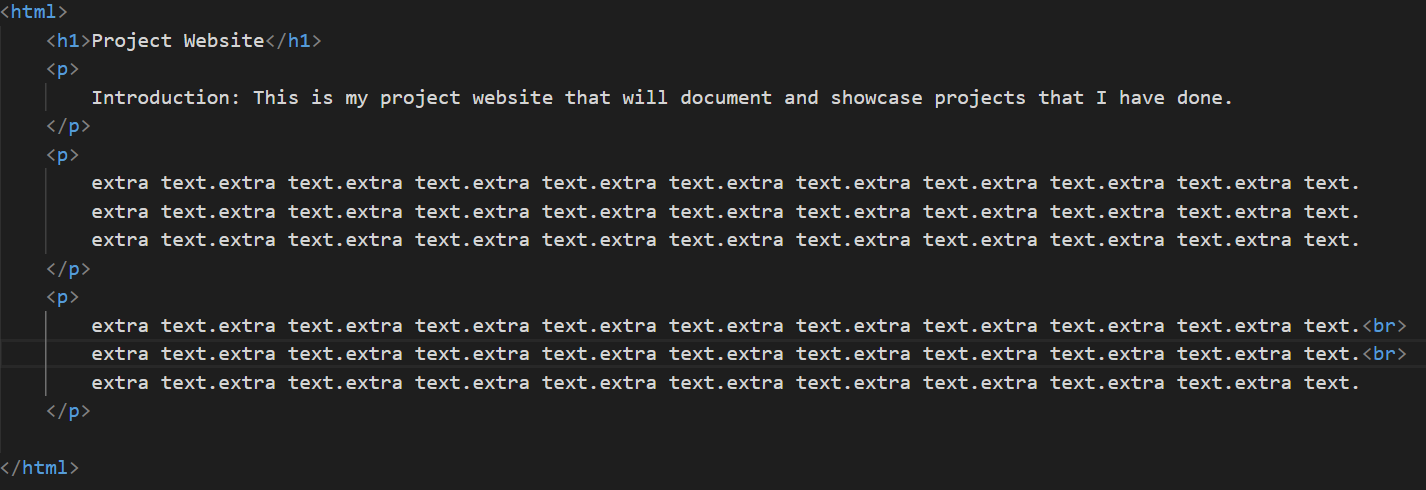
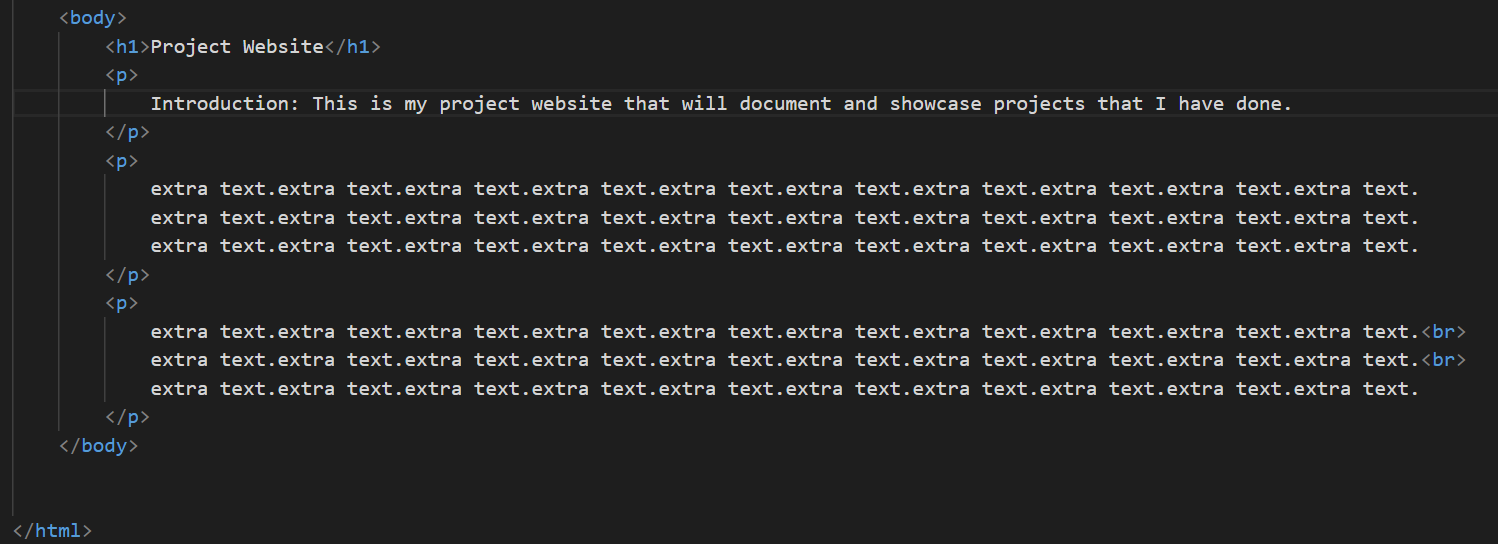
update

diff --git a/Examples/HTML_example.html b/Examples/HTML_example.html
@@ -1,19 +1,25 @@
 <!DOCTYPE html>
 </html lang="en">
 <html>
-    <h1>Project Website</h1>
-    <p>
-        Introduction: This is my project website that will document and showcase projects that I have done.
-    </p>
-    <p>
-        extra text.extra text.extra text.extra text.extra text.extra text.extra text.extra text.extra text.extra text.
-        extra text.extra text.extra text.extra text.extra text.extra text.extra text.extra text.extra text.extra text.
-        extra text.extra text.extra text.extra text.extra text.extra text.extra text.extra text.extra text.extra text.
-    </p>
-    <p>
-        extra text.extra text.extra text.extra text.extra text.extra text.extra text.extra text.extra text.extra text.<br>
-        extra text.extra text.extra text.extra text.extra text.extra text.extra text.extra text.extra text.extra text.<br>
-        extra text.extra text.extra text.extra text.extra text.extra text.extra text.extra text.extra text.extra text.
-    </p>
+    <head>
+        <title>Example_website</title>
+    </head>
+    <body>
+        <h1>Project Website</h1>
+        <p>
+            Introduction: This is my project website that will document and showcase projects that I have done.
+        </p>
+        <p>
+            extra text.extra text.extra text.extra text.extra text.extra text.extra text.extra text.extra text.extra text.
+            extra text.extra text.extra text.extra text.extra text.extra text.extra text.extra text.extra text.extra text.
+            extra text.extra text.extra text.extra text.extra text.extra text.extra text.extra text.extra text.extra text.
+        </p>
+        <p>
+            extra text.extra text.extra text.extra text.extra text.extra text.extra text.extra text.extra text.extra text.<br>
+            extra text.extra text.extra text.extra text.extra text.extra text.extra text.extra text.extra text.extra text.<br>
+            extra text.extra text.extra text.extra text.extra text.extra text.extra text.extra text.extra text.extra text.
+        </p>  
+    </body>
+   
 
 </html>

diff --git a/projectlist/websitecreation.html b/projectlist/websitecreation.html
@@ -54,7 +54,7 @@
 
                 <h3>3. Headers and body texts</h3>
                 <img src="https://darryloch.github.io/EP1000/images/headers_paragraph_text.png" alt="headers and text paragraphs" height="250">
-                <img src="https://darryloch.github.io/EP1000/images/headers_text_show.png" alt="website look" height="150">
+                <img src="https://darryloch.github.io/EP1000/images/headers_text_show.png" alt="website look" width="1020">
                 <p>
                     &lt;h1&gt;&lt;/h1&gt; is used for headers. Header size ranges from 1-6, where h1 is the largest.<br>
                     &lt;p&gt;&lt;/p&gt; is used to indicate a text paragraph.<br>
